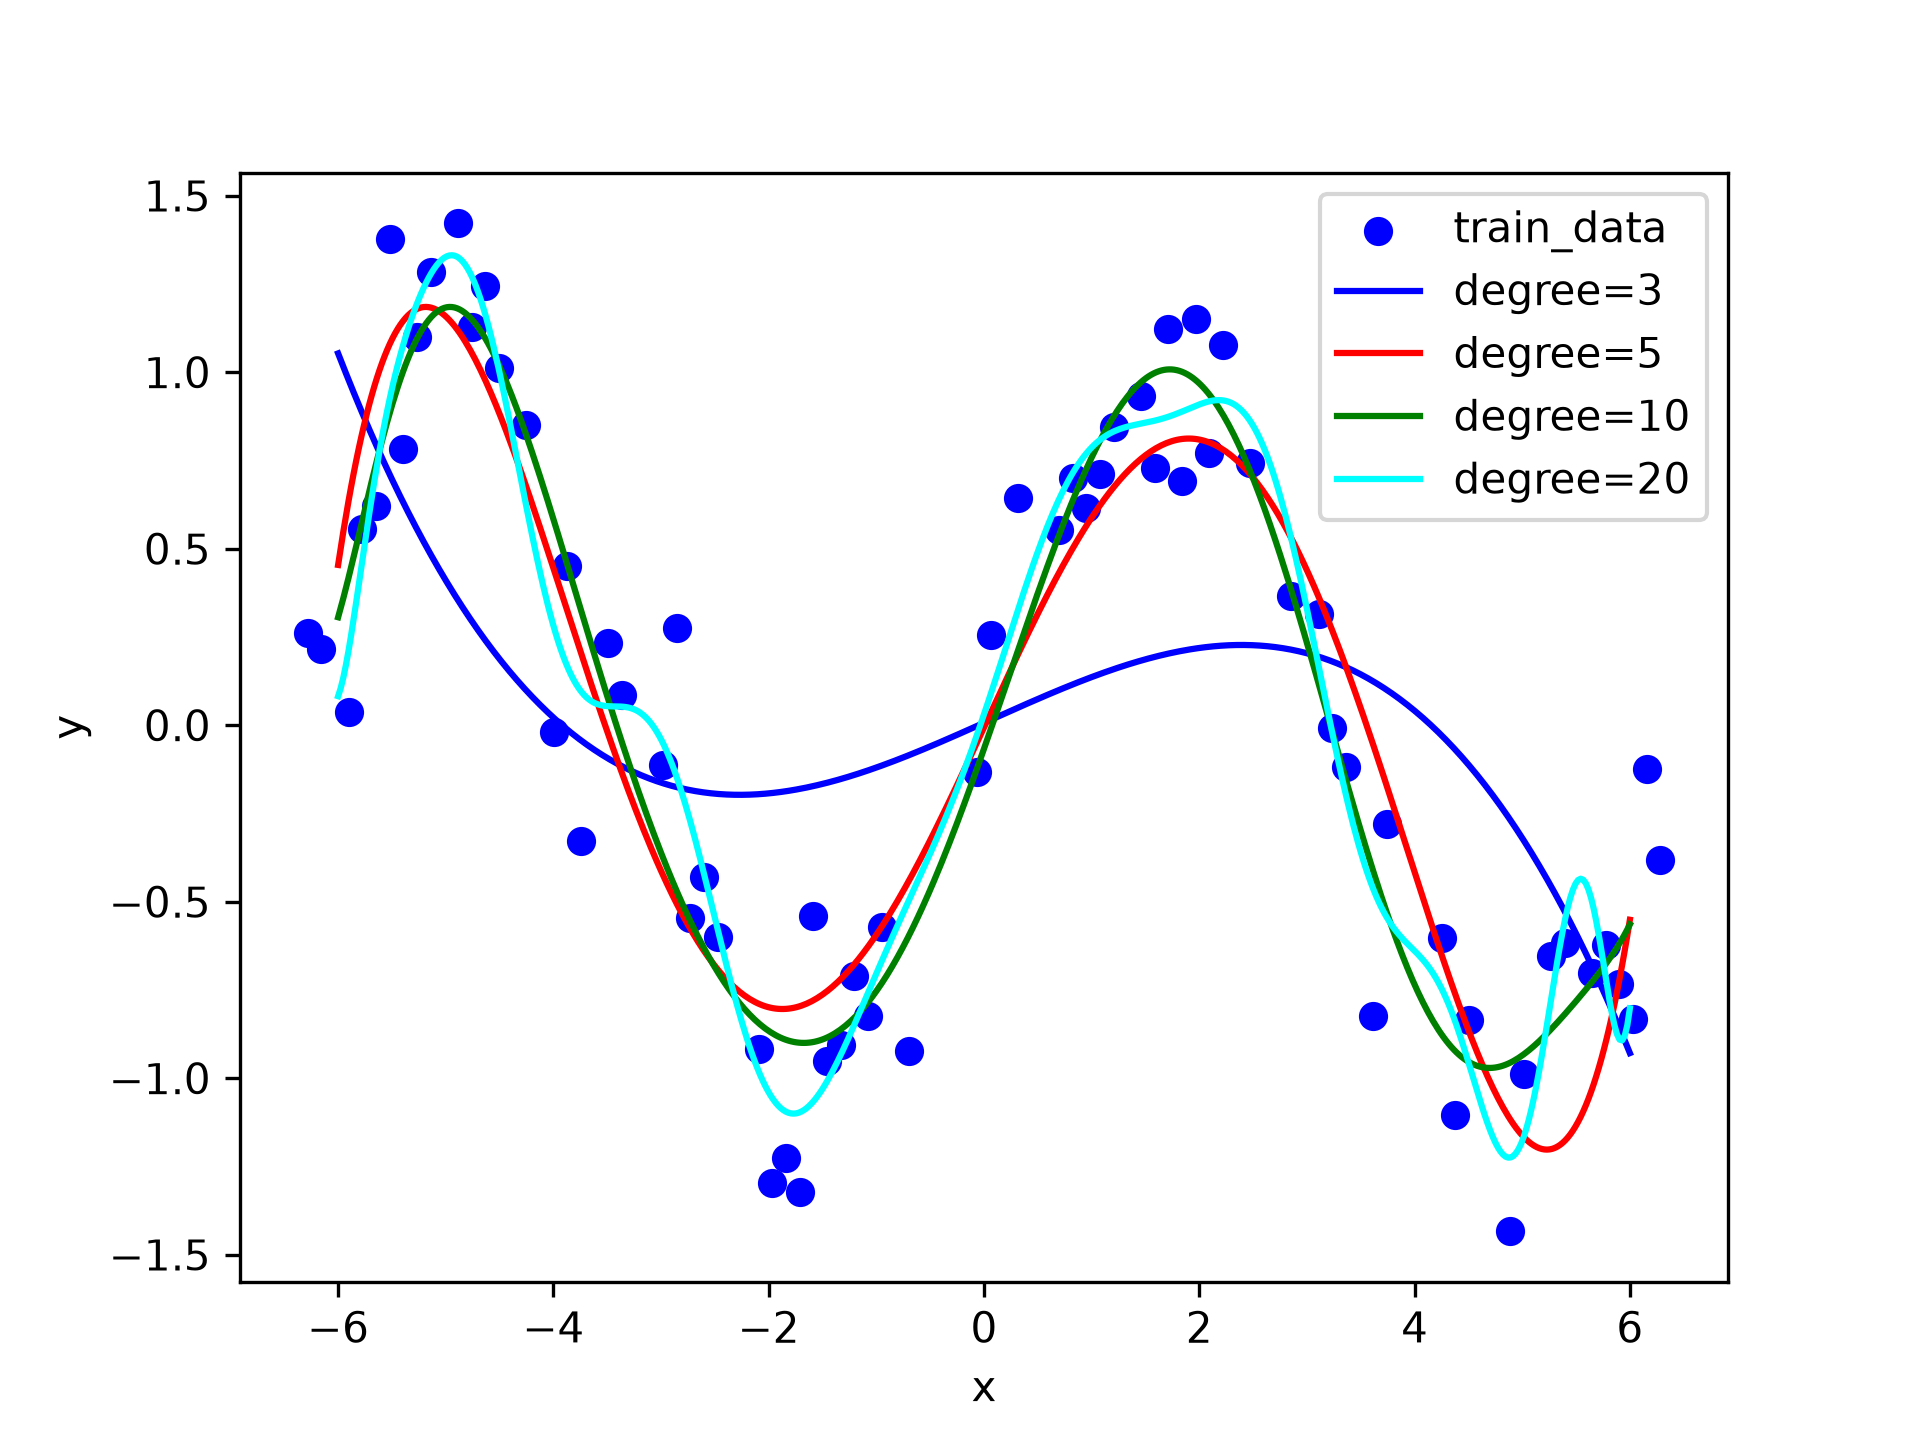
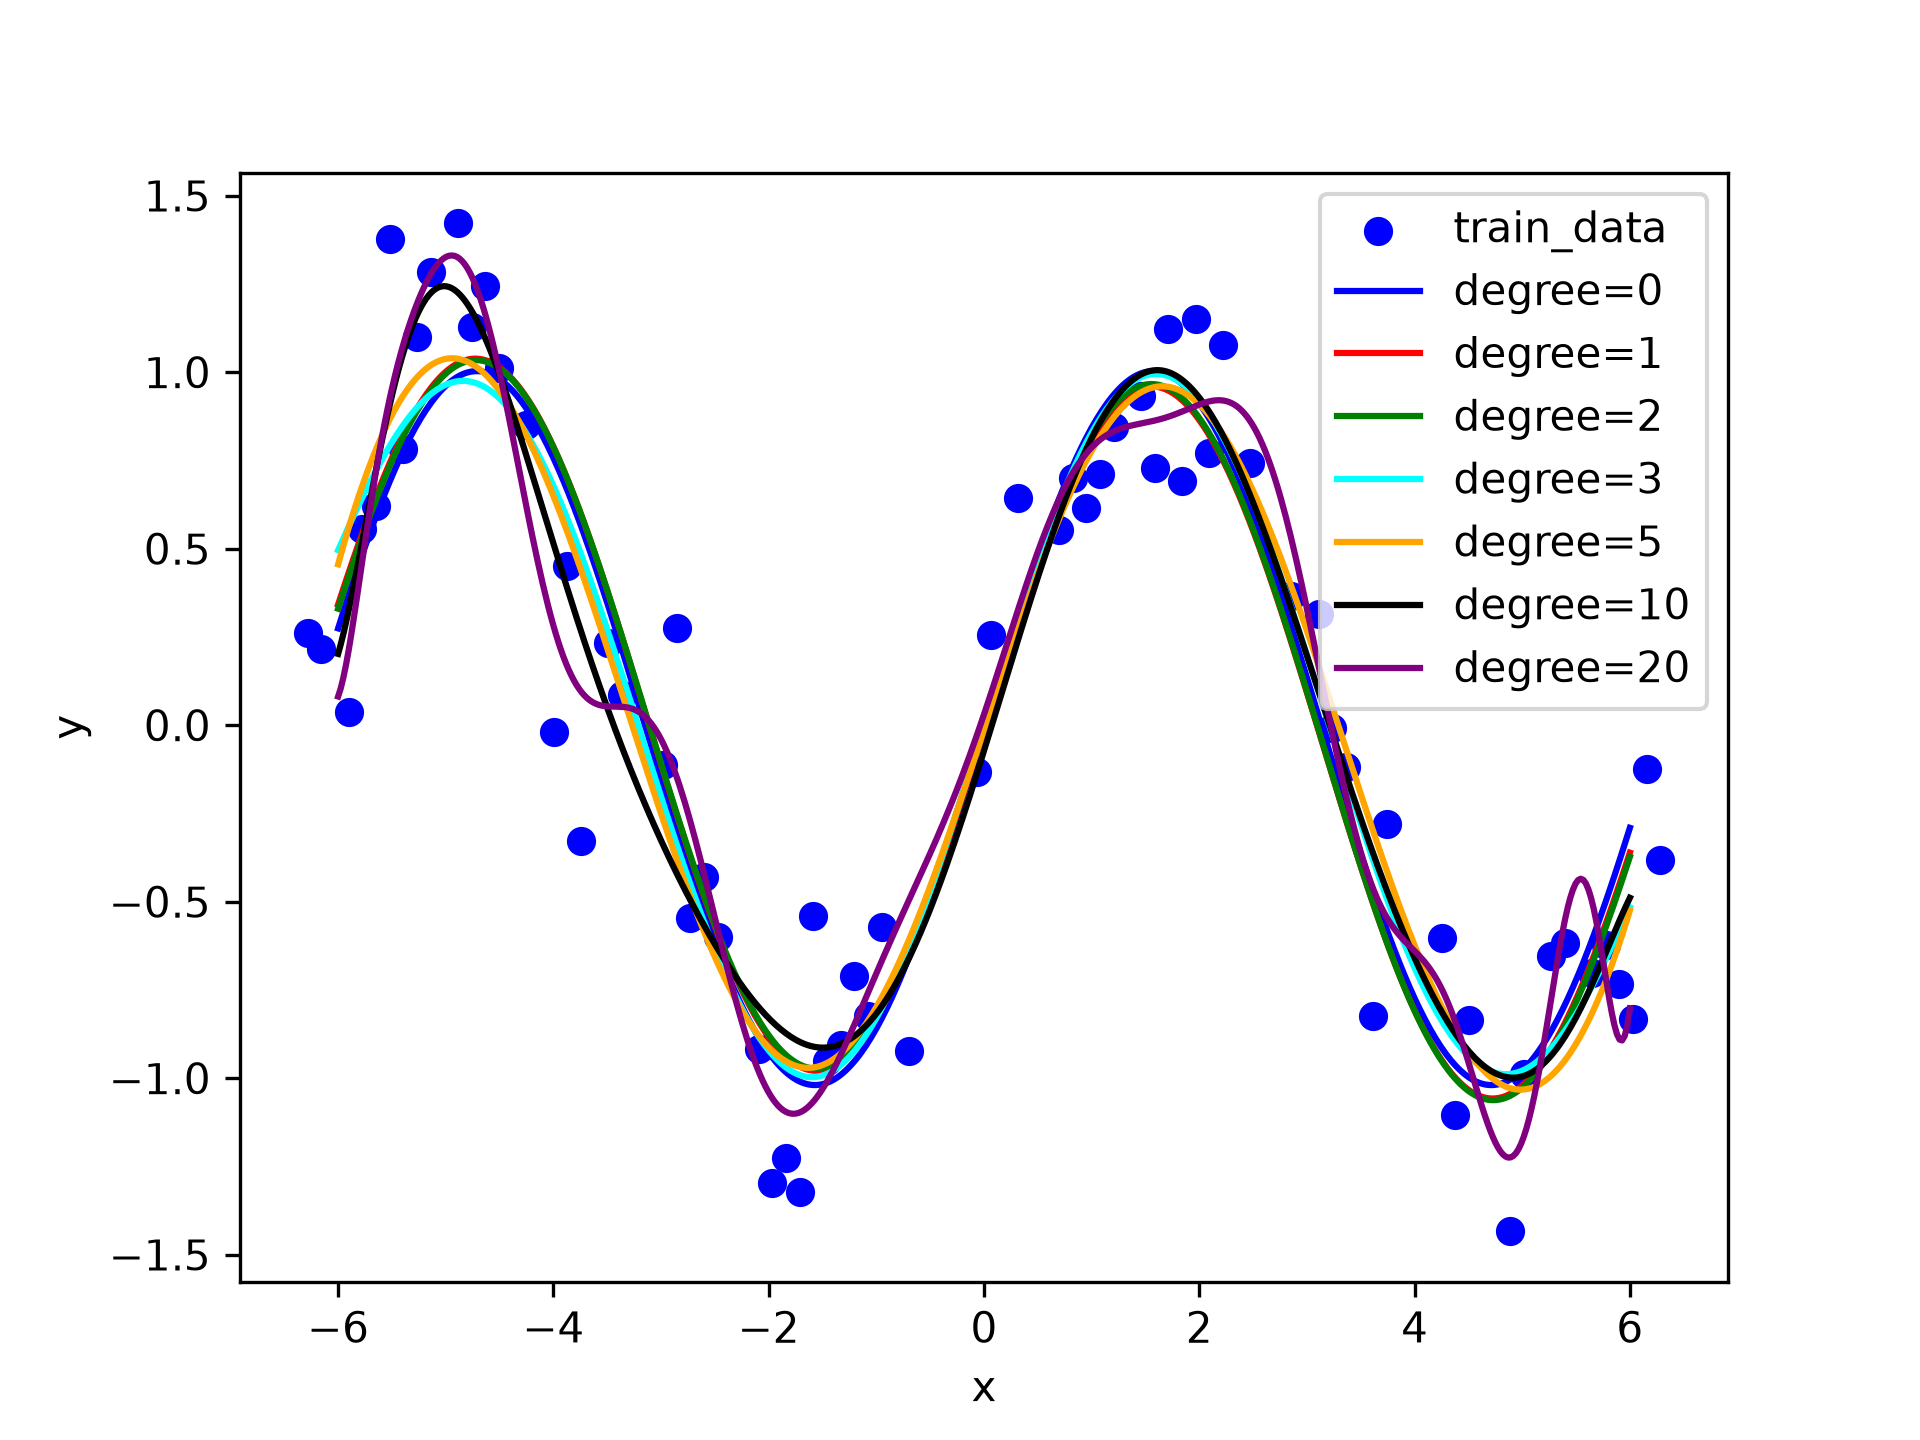
Ex3_3提交

diff --git a/Stanford_ML_2025/Ex3-线性回归与过拟合问题/Ex3_reuse_module.py b/Stanford_ML_2025/Ex3-线性回归与过拟合问题/Ex3_reuse_module.py
@@ -1,4 +1,5 @@
 import numpy as np
+import math
 
 def convert(x):
     new_x = []
@@ -33,6 +34,16 @@ def f(x,theta,n):
     y = []
     for i in x:
         new_x = np.array([i**j for j in range(n+1)])
+        new_x = new_x.reshape(-1, 1)
+        result = theta.T @ new_x
+        y.append(result[0][0])
+    return y
+
+
+def f_sin(x,theta,n):
+    y = []
+    for i in x:
+        new_x = np.array([i**j for j in range(n+1)]+[math.sin(i)])
         new_x = new_x.reshape(-1, 1)
         result = theta.T @ new_x
         y.append(result[0][0])
